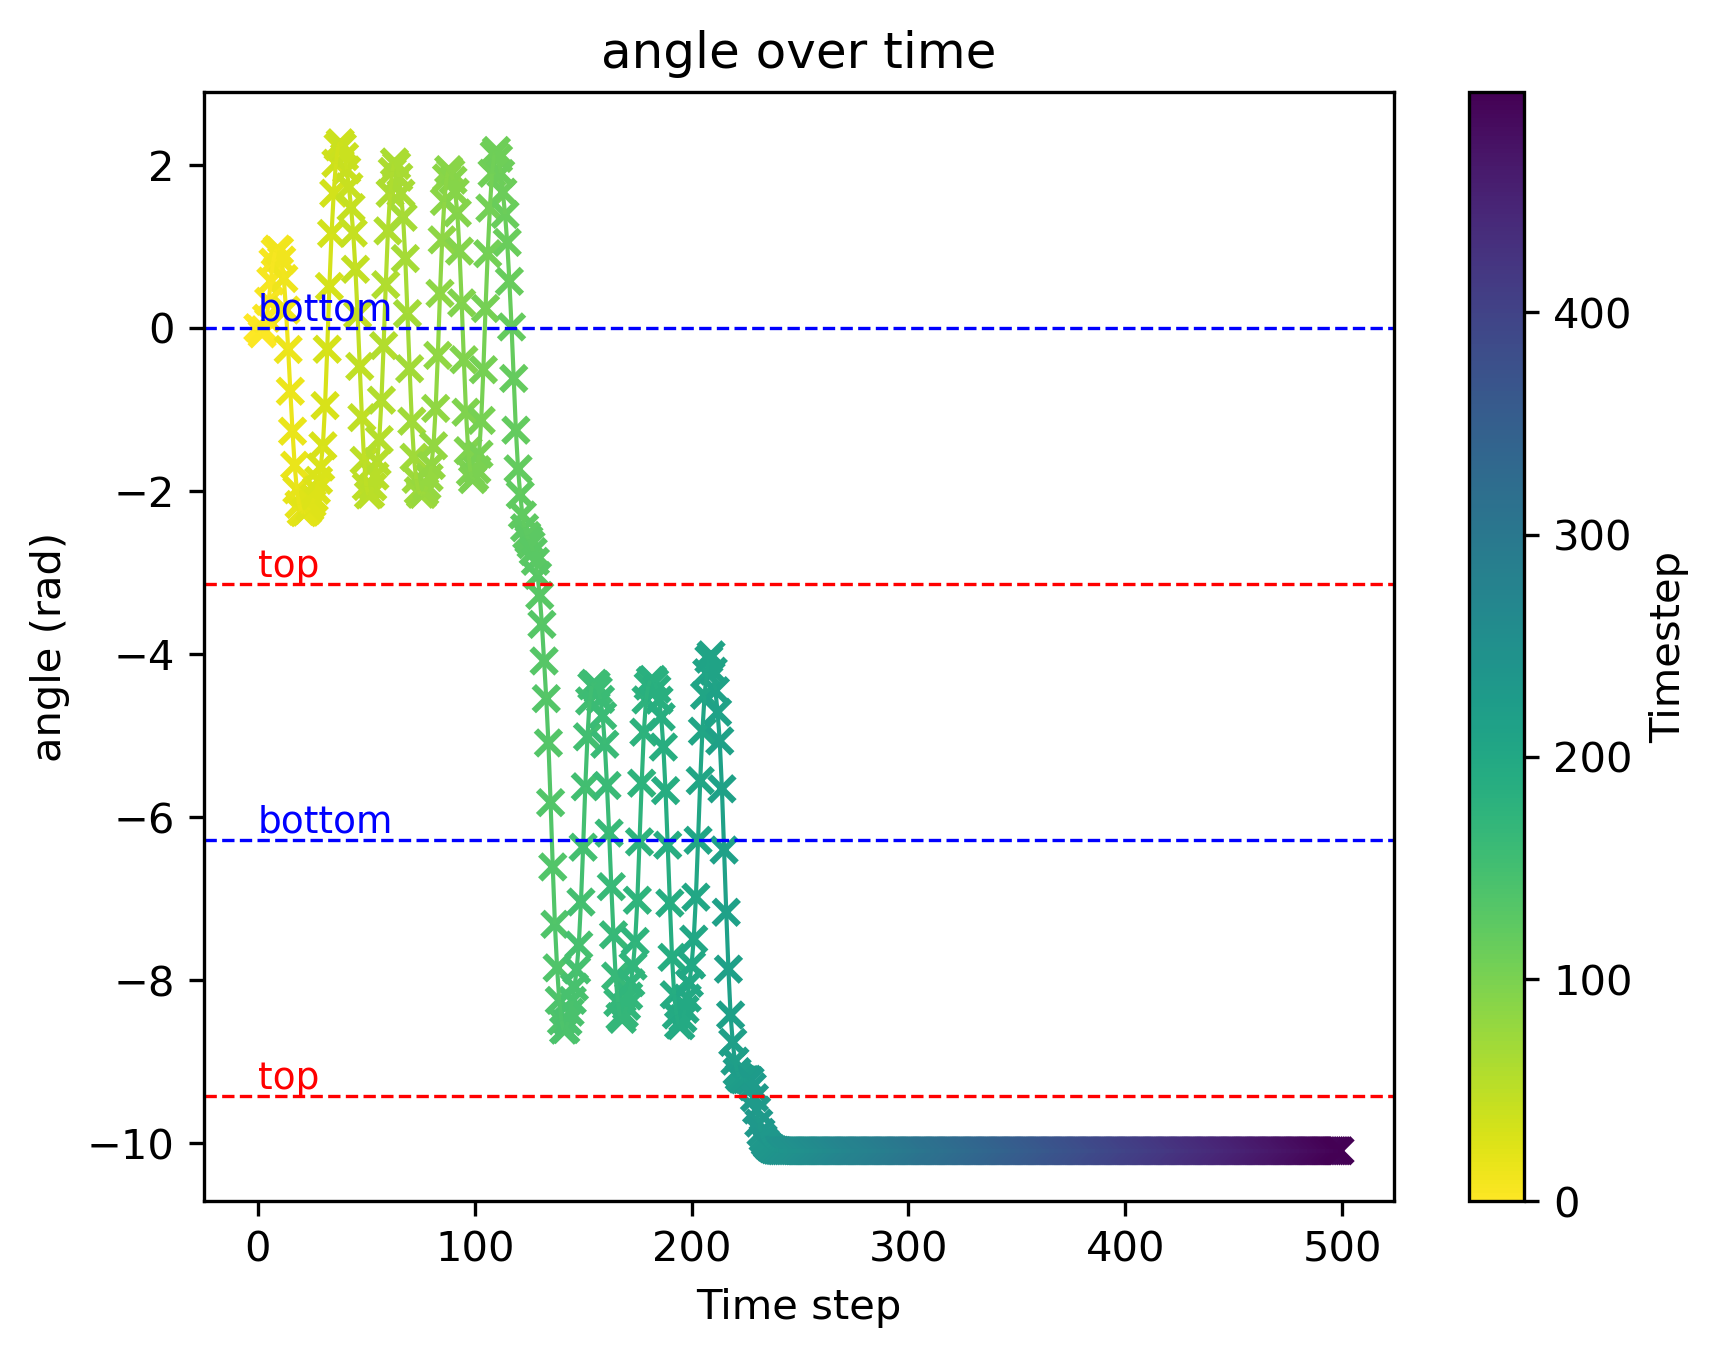
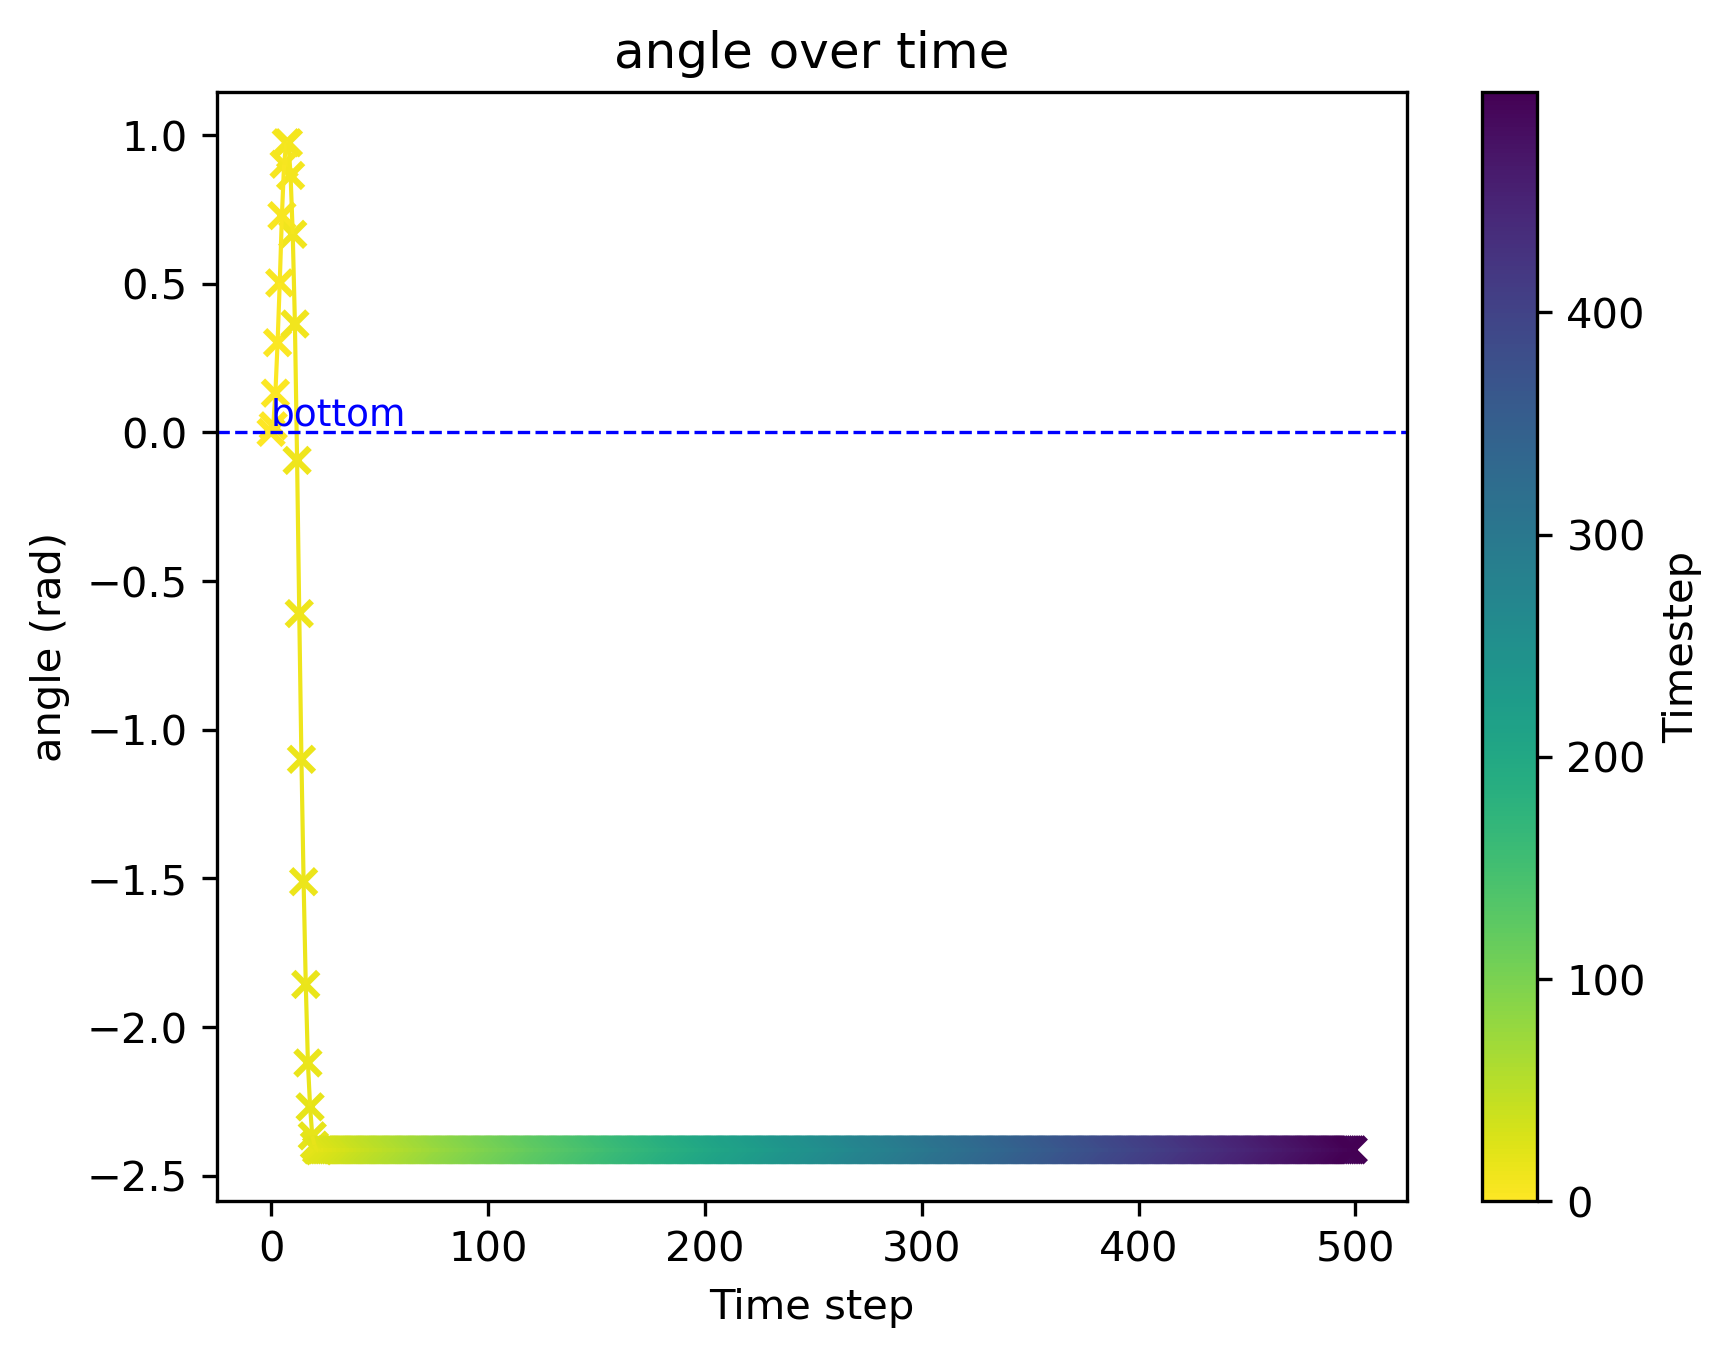
good plots real pendulum

diff --git a/gym-unbalanced-disk/gym_unbalanced_disk/envs/plots real pendulum.py b/gym-unbalanced-disk/gym_unbalanced_disk/envs/plots real pendulum.py
@@ -145,99 +145,106 @@ def plots_moving():
 
     import numpy as np
 
+    thetas = [thetas_006, thetas_0065]
+    omegas = [omegas_006, omegas_0065]
+    omega_calcs = [omega_calcs_006, omega_calcs_0065]
+    dts = ["006", "0065"]
     # angle vs velocity
-    fig, ax = plt.subplots()
     timesteps = np.arange(500)
-    points = np.array([thetas_006, omega_calcs_006]).T.reshape(-1, 1, 2)
-    segments = np.concatenate([points[:-1], points[1:]], axis=1)
-    from matplotlib.collections import LineCollection
-    lc = LineCollection(segments, cmap='viridis_r', norm=plt.Normalize(timesteps.min(), timesteps.max()))
-    lc.set_array(timesteps)
-    lc.set_linewidth(2)
+    for i in range(len(dts)):
+        fig, ax = plt.subplots()
+        points = np.array([thetas[i], omega_calcs[i]]).T.reshape(-1, 1, 2)
+        segments = np.concatenate([points[:-1], points[1:]], axis=1)
+        from matplotlib.collections import LineCollection
+        lc = LineCollection(segments, cmap='viridis_r', norm=plt.Normalize(timesteps.min(), timesteps.max()))
+        lc.set_array(timesteps)
+        lc.set_linewidth(2)
 
-    xmin = min(thetas_006)
-    xmax = max(thetas_006)
-    print("xmin", xmin)
-    print(xmax)
-    lower_top = int(np.ceil((xmin - np.pi) / (2 * np.pi)))
-    upper_top = int(np.floor((xmax - np.pi) / (2 * np.pi)))
-    top_positions = (2 * np.arange(lower_top, upper_top + 1) + 1) * np.pi
+        xmin = min(thetas[i])
+        xmax = max(thetas[i])
+        lower_top = int(np.ceil((xmin - np.pi) / (2 * np.pi)))
+        upper_top = int(np.floor((xmax - np.pi) / (2 * np.pi)))
+        top_positions = (2 * np.arange(lower_top, upper_top + 1) + 1) * np.pi
 
-    bottom_multiples = np.arange(np.floor(xmin / (2 * np.pi)), np.ceil(xmax / (2*np.pi)) + 1)
-    bottom_positions = bottom_multiples[1:-1] * 2*np.pi
+        bottom_multiples = np.arange(np.floor(xmin / (2 * np.pi)), np.ceil(xmax / (2*np.pi)) + 1)
+        bottom_positions = bottom_multiples[1:-1] * 2*np.pi
 
-    ax.add_collection(lc)
-    sc = ax.scatter(thetas_006, omega_calcs_006, c=timesteps, cmap='viridis_r', marker='x')
-    for pos in top_positions:
-        ax.axvline(x=pos, color='red', linestyle='--', linewidth=0.8)
-        ax.text(pos + 0.1, ax.get_ylim()[0], 'top', color='red', fontsize=9, va='bottom', ha='left')
+        ax.add_collection(lc)
+        print(len(thetas[i]), len(omega_calcs[i]))
+        sc = ax.scatter(thetas[i], omega_calcs[i], c=timesteps, cmap='viridis_r', marker='x')
+        for pos in top_positions:
+            ax.axvline(x=pos, color='red', linestyle='--', linewidth=0.8)
+            ax.text(pos + 0.1, ax.get_ylim()[0], 'top', color='red', fontsize=9, va='bottom', ha='left')
 
-    for pos in bottom_positions:
-        ax.axvline(x=pos, color='blue', linestyle='--', linewidth=0.8)
-        ax.text(pos + 0.1, ax.get_ylim()[0], 'bottom', color='blue', fontsize=9, va='bottom', ha='left')
+        for pos in bottom_positions:
+            ax.axvline(x=pos, color='blue', linestyle='--', linewidth=0.8)
+            ax.text(pos + 0.1, ax.get_ylim()[0], 'bottom', color='blue', fontsize=9, va='bottom', ha='left')
 
-    plt.xlabel("angle (rad)")
-    plt.ylabel("angular velocity (rad/s)")
-    plt.colorbar(sc, label="Timestep")
-    plt.title("angular velocity vs angle")
-    ax.axhline(y=0, color='r')
-    plt.savefig('real angle vs velocity.png', dpi=300, bbox_inches='tight')
-    plt.show()
+        plt.xlabel("angle (rad)")
+        plt.ylabel("angular velocity (rad/s)")
+        plt.colorbar(sc, label="Timestep")
+        plt.title("angular velocity vs angle")
+        ax.axhline(y=0, color='r')
+        plot_save_name = 'real angle vs velocity, dt = ' + dts[i] + '.png'
+        plt.savefig(plot_save_name, dpi=300, bbox_inches='tight')
+        plt.show()
 
-    # velocity over time
-    fig, ax = plt.subplots()
-    sc = ax.scatter(timesteps, omega_calcs_006, marker='x', c=timesteps, cmap = 'viridis_r')
-    points = np.array([timesteps, omega_calcs_006]).T.reshape(-1, 1, 2)
-    segments = np.concatenate([points[:-1], points[1:]], axis=1)
-    lc = LineCollection(segments, cmap='viridis_r', norm=plt.Normalize(timesteps.min(), timesteps.max()))
-    lc.set_array(timesteps)
-    lc.set_linewidth(1)
-    ax.add_collection(lc)
-    plt.colorbar(sc, label="Timestep")
-    plt.xlabel("Time step")
-    plt.ylabel("angular velocity (rad/s)")
-    plt.title("angular velocity over time")
-    ax.axhline(y=0, color='r')
-    plt.savefig('real velocity over time.png', dpi=300, bbox_inches='tight')
-    plt.show()
+        # velocity over time
+        fig, ax = plt.subplots()
+        sc = ax.scatter(timesteps, omega_calcs[i], marker='x', c=timesteps, cmap = 'viridis_r')
+        points = np.array([timesteps, omega_calcs[i]]).T.reshape(-1, 1, 2)
+        segments = np.concatenate([points[:-1], points[1:]], axis=1)
+        lc = LineCollection(segments, cmap='viridis_r', norm=plt.Normalize(timesteps.min(), timesteps.max()))
+        lc.set_array(timesteps)
+        lc.set_linewidth(1)
+        ax.add_collection(lc)
+        plt.colorbar(sc, label="Timestep")
+        plt.xlabel("Time step")
+        plt.ylabel("angular velocity (rad/s)")
+        plt.title("angular velocity over time")
+        ax.axhline(y=0, color='r')
+        plot_save_name = 'real velocity over time, dt = ' + dts[i] + '.png'
+        plt.savefig(plot_save_name, dpi=300, bbox_inches='tight')
+        plt.show()
 
-    # angle over time
-    fig, ax = plt.subplots()
-    ymin = min(thetas_006)
-    ymax = max(thetas_006)
-    # Compute lower and upper bounds for odd multiples of π
-    lower_top = int(np.ceil((ymin - np.pi) / (2 * np.pi)))
-    upper_top = int(np.floor((ymax - np.pi) / (2 * np.pi)))
+        # angle over time
+        fig, ax = plt.subplots()
+        ymin = min(thetas[i])
+        ymax = max(thetas[i])
+        # Compute lower and upper bounds for odd multiples of π
+        lower_top = int(np.ceil((ymin - np.pi) / (2 * np.pi)))
+        upper_top = int(np.floor((ymax - np.pi) / (2 * np.pi)))
 
-    # Generate odd multiples of π within the range
-    top_positions = (2 * np.arange(lower_top, upper_top + 1) + 1) * np.pi
+        # Generate odd multiples of π within the range
+        top_positions = (2 * np.arange(lower_top, upper_top + 1) + 1) * np.pi
 
-    bottom_multiples = np.arange(np.floor(ymin / (2 * np.pi)), np.ceil(ymax / (2*np.pi)) + 1)
-    bottom_positions = bottom_multiples[1:-1] * 2*np.pi
+        bottom_multiples = np.arange(np.floor(ymin / (2 * np.pi)), np.ceil(ymax / (2*np.pi)) + 1)
+        bottom_positions = bottom_multiples[1:-1] * 2*np.pi
 
-    sc = ax.scatter(timesteps, thetas_006, marker='x', c=timesteps, cmap = 'viridis_r')
-    points = np.array([timesteps, thetas_006]).T.reshape(-1, 1, 2)
-    segments = np.concatenate([points[:-1], points[1:]], axis=1)
-    lc = LineCollection(segments, cmap='viridis_r', norm=plt.Normalize(timesteps.min(), timesteps.max()))
-    lc.set_array(timesteps)
-    lc.set_linewidth(1)
-    ax.add_collection(lc)
+        sc = ax.scatter(timesteps, thetas[i], marker='x', c=timesteps, cmap = 'viridis_r')
+        points = np.array([timesteps, thetas[i]]).T.reshape(-1, 1, 2)
+        segments = np.concatenate([points[:-1], points[1:]], axis=1)
+        lc = LineCollection(segments, cmap='viridis_r', norm=plt.Normalize(timesteps.min(), timesteps.max()))
+        lc.set_array(timesteps)
+        lc.set_linewidth(1)
+        ax.add_collection(lc)
 
-    for pos in top_positions:
-        ax.axhline(y=pos, color='red', linestyle='--', linewidth=0.8)
-        ax.text(0, pos, 'top', color='red', fontsize=9, va='bottom', ha='left')
+        for pos in top_positions:
+            ax.axhline(y=pos, color='red', linestyle='--', linewidth=0.8)
+            ax.text(0, pos, 'top', color='red', fontsize=9, va='bottom', ha='left')
 
-    for pos in bottom_positions:
-        ax.axhline(y=pos, color='blue', linestyle='--', linewidth=0.8)
-        ax.text(0, pos, 'bottom', color='blue', fontsize=9, va='bottom', ha='left')
+        for pos in bottom_positions:
+            ax.axhline(y=pos, color='blue', linestyle='--', linewidth=0.8)
+            ax.text(0, pos, 'bottom', color='blue', fontsize=9, va='bottom', ha='left')
 
-    plt.colorbar(sc, label="Timestep")
-    
-    plt.xlabel("Time step")
-    plt.ylabel("angle (rad)")
-    plt.title("angle over time")
-    plt.savefig('real angle over time.png', dpi=300, bbox_inches='tight')
-    plt.show()
+        plt.colorbar(sc, label="Timestep")
+        
+        plt.xlabel("Time step")
+        plt.ylabel("angle (rad)")
+        plt.title("angle over time")
+        plot_save_name = 'real angle over time, dt = ' + dts[i] + '.png'
+        plt.savefig('real angle over time.png', dpi=300, bbox_inches='tight')
+        plt.show()
     
 
 if __name__ == '__main__':
